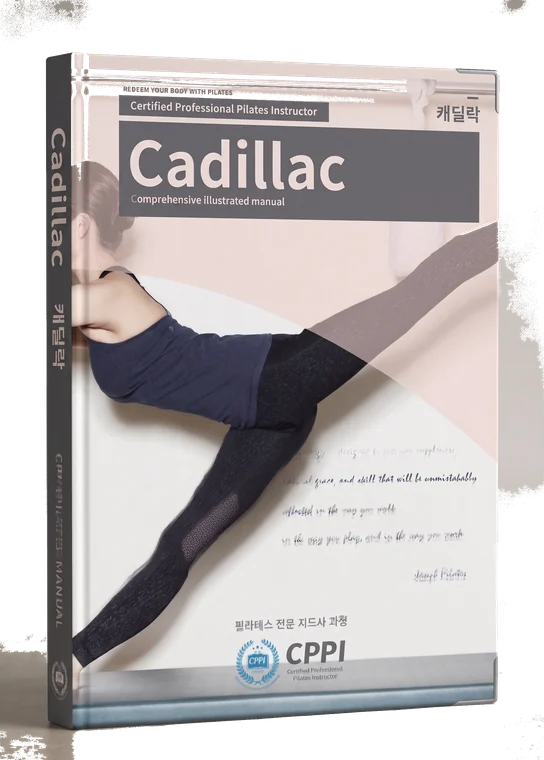
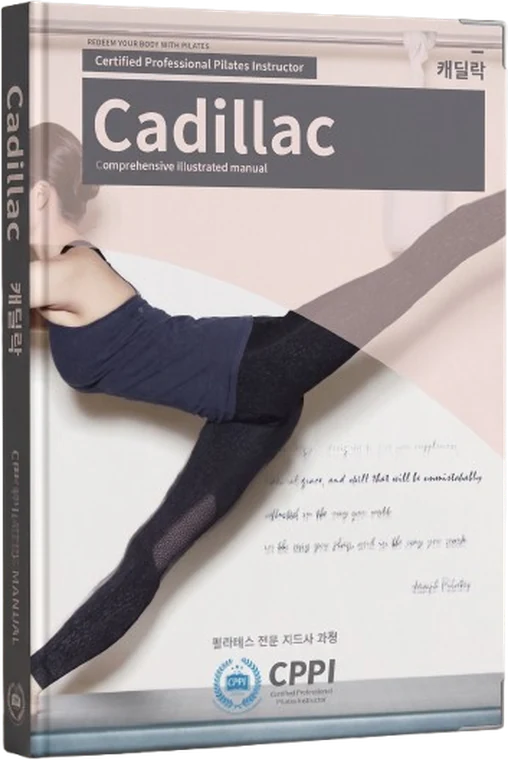
교재 표지를 removebg 누끼본으로 교체(8종, 396KB) - 커리큘럼/홈/스토어 전 구간 자동 반영. 커리큘럼 표지 클릭이 첫 항목만 되던 문제 수정: 절대배치 겹침을 음수 마진 스택으로 바꿔 각 카드의 드러난 영역이 곧 클릭 영역이 되도록 함, 스크롤 이동 시 헤더 높이 반영

diff --git a/index.html b/index.html
@@ -576,54 +576,44 @@ p.lead{color:var(--ink2); font-size:14.5px; margin-bottom:14px}
 
 /* ============================================================
    커리큘럼 3D 카드 팬 - 표지가 원근 속으로 비스듬히 늘어선다
-   (참고 사이트는 WebGL이지만 여기서는 가벼운 CSS 3D로 같은 인상을 만든다)
+   겹치기는 음수 마진으로 처리해, 각 카드의 드러난 부분이 정확히
+   그 카드의 클릭 영역이 되도록 한다 (절대배치 시 앞 카드가 뒤 카드의
+   클릭을 가로채던 문제 해결).
 ============================================================ */
-.cfan{position:relative; margin:6px 0 22px; padding:8px 0 44px; overflow:hidden}
-.cfan-stage{position:relative; height:340px; perspective:1500px; perspective-origin:62% 50%;
-  transform-style:preserve-3d}
-.cfan-card{position:absolute; left:50%; top:50%; width:190px; padding:0; background:none; border:0;
-  transform-style:preserve-3d; cursor:pointer;
-  /* 카드마다 X는 오른쪽으로, Z는 뒤로 물러나며 Y축 회전으로 비스듬히 세운다 */
-  transform:
-    translate3d(calc(-50% + var(--i) * 74px - 210px), calc(-50% + var(--i) * -16px + 44px), calc(var(--i) * -108px))
-    rotateY(-26deg) rotateZ(-1.5deg);
-  transition:transform .7s var(--ease-out), filter .5s var(--ease-std);
-  filter:drop-shadow(0 24px 34px rgba(90,45,20,.24));
-  z-index:calc(20 - var(--i));
+.cfan{position:relative; margin:6px 0 22px; padding:10px 0 48px}
+.cfan-stage{display:flex; justify-content:center; align-items:flex-end;
+  perspective:1500px; padding:26px 10px 10px; overflow-x:auto; overflow-y:hidden;
+  scrollbar-width:none; -ms-overflow-style:none}
+.cfan-stage::-webkit-scrollbar{display:none}
+.cfan-card{flex:0 0 auto; width:150px; margin-left:-62px; padding:0; background:none; border:0;
+  cursor:pointer; position:relative; transform-origin:bottom center;
+  transform:rotateY(-24deg) translateY(calc(var(--i) * -6px));
+  transition:transform .55s var(--ease-out), filter .45s var(--ease-std);
+  filter:drop-shadow(0 18px 26px rgba(90,45,20,.26));
+  z-index:var(--i);
 }
-.cfan-card img{width:100%; height:auto; display:block; border-radius:3px}
-.cfan-card .cfan-label{position:absolute; left:0; right:0; bottom:-30px; display:flex; align-items:baseline;
-  justify-content:center; gap:8px; font-size:12px; font-weight:700; color:var(--ink);
-  opacity:0; transform:translateY(6px); transition:opacity .4s var(--ease-std), transform .4s var(--ease-out);
-  white-space:nowrap; pointer-events:none}
+.cfan-card:first-child{margin-left:0}
+.cfan-card img{width:100%; height:auto; display:block}
+.cfan-card .cfan-label{position:absolute; left:50%; transform:translateX(-50%) translateY(6px);
+  bottom:-30px; display:flex; align-items:baseline; gap:7px; white-space:nowrap;
+  font-size:12px; font-weight:700; color:var(--ink); opacity:0; pointer-events:none;
+  transition:opacity .35s var(--ease-std), transform .35s var(--ease-out)}
 .cfan-card .cfan-label i{font-style:normal; color:var(--pri); font-size:10.5px; letter-spacing:.12em}
 .cfan-card:hover, .cfan-card:focus-visible{
-  transform:
-    translate3d(calc(-50% + var(--i) * 74px - 210px), calc(-50% + var(--i) * -16px + 24px), calc(var(--i) * -108px + 90px))
-    rotateY(-14deg) rotateZ(0deg);
-  filter:drop-shadow(0 34px 46px rgba(90,45,20,.34)); z-index:30; outline:none}
-.cfan-card:hover .cfan-label, .cfan-card:focus-visible .cfan-label{opacity:1; transform:translateY(0)}
-.cfan-hint{margin-top:6px; text-align:center; font-size:11.5px; letter-spacing:.06em; color:var(--ink2)}
+  transform:rotateY(-8deg) translateY(calc(var(--i) * -6px - 16px)) scale(1.06);
+  filter:drop-shadow(0 30px 42px rgba(90,45,20,.36)); z-index:40; outline:none}
+.cfan-card:hover .cfan-label, .cfan-card:focus-visible .cfan-label{opacity:1; transform:translateX(-50%) translateY(0)}
+.cfan-hint{margin-top:10px; text-align:center; font-size:11.5px; letter-spacing:.06em; color:var(--ink2)}
 /* 선택한 과목 카드로 이동했을 때 잠깐 강조 */
 .curriculum-list .card.is-hit{box-shadow:0 0 0 2px var(--pri), var(--sh); transition:box-shadow .4s var(--ease-std)}
-@media(max-width:1023px){
-  .cfan-stage{height:250px; perspective:1000px; perspective-origin:60% 50%}
-  .cfan-card{width:132px;
-    transform:translate3d(calc(-50% + var(--i) * 46px - 132px), calc(-50% + var(--i) * -9px + 26px), calc(var(--i) * -72px))
-      rotateY(-24deg) rotateZ(-1.5deg)}
-  .cfan-card:hover{transform:translate3d(calc(-50% + var(--i) * 46px - 132px), calc(-50% + var(--i) * -9px + 12px), calc(var(--i) * -72px + 60px)) rotateY(-14deg)}
-}
 @media(min-width:1024px){
-  .cfan{padding:20px 0 60px}
-  .cfan-stage{height:470px; perspective:1900px}
-  .cfan-card{width:250px;
-    transform:translate3d(calc(-50% + var(--i) * 104px - 300px), calc(-50% + var(--i) * -22px + 62px), calc(var(--i) * -140px))
-      rotateY(-26deg) rotateZ(-1.5deg)}
+  .cfan{padding:22px 0 62px}
+  .cfan-stage{perspective:2000px; padding:34px 20px 14px}
+  .cfan-card{width:214px; margin-left:-86px; transform:rotateY(-24deg) translateY(calc(var(--i) * -9px))}
   .cfan-card:hover, .cfan-card:focus-visible{
-    transform:translate3d(calc(-50% + var(--i) * 104px - 300px), calc(-50% + var(--i) * -22px + 34px), calc(var(--i) * -140px + 120px))
-      rotateY(-13deg) rotateZ(0deg)}
+    transform:rotateY(-8deg) translateY(calc(var(--i) * -9px - 22px)) scale(1.07)}
   .cfan-card .cfan-label{font-size:13.5px; bottom:-34px}
-  .cfan-hint{font-size:12.5px}
+  .cfan-hint{font-size:12.5px; margin-top:14px}
 }
 @media(prefers-reduced-motion:reduce){
   .cfan-card{transition:none}

diff --git a/app.js b/app.js
@@ -1099,10 +1099,14 @@ function curriculumFan() {
 function goCurriculumItem(i) {
   const el = document.getElementById("cur-" + i);
   if (!el) return;
-  const y = el.getBoundingClientRect().top + window.scrollY - 80;
-  if (_lenis) _lenis.scrollTo(y, { duration: 1.1 }); else window.scrollTo({ top: y, behavior: "smooth" });
+  const header = document.querySelector("header");
+  const offset = (header ? header.offsetHeight : 56) + 24;
+  const y = Math.max(0, el.getBoundingClientRect().top + window.scrollY - offset);
+  if (_lenis && typeof _lenis.scrollTo === "function") _lenis.scrollTo(y, { duration: 1.0 });
+  else window.scrollTo({ top: y, behavior: "smooth" });
+  document.querySelectorAll(".curriculum-list .card.is-hit").forEach(n => n.classList.remove("is-hit"));
   el.classList.add("is-hit");
-  setTimeout(() => el.classList.remove("is-hit"), 1400);
+  setTimeout(() => el.classList.remove("is-hit"), 1600);
 }
 
 routes.curriculum = () => `

diff --git a/sw.js b/sw.js
@@ -1,5 +1,5 @@
 /* CPPI PWA Service Worker v4 — 전체 오프라인 캐싱 */
-const CACHE = "cppi-v13";
+const CACHE = "cppi-v14";
 
 /* 교재 미리보기 전체 (9권 × 13p) */
 const BOOK_SLUGS = ["anatomy", "principle", "mat", "reformer", "cadillac", "chair", "lbarrel", "abarrel", "scorrector"];
